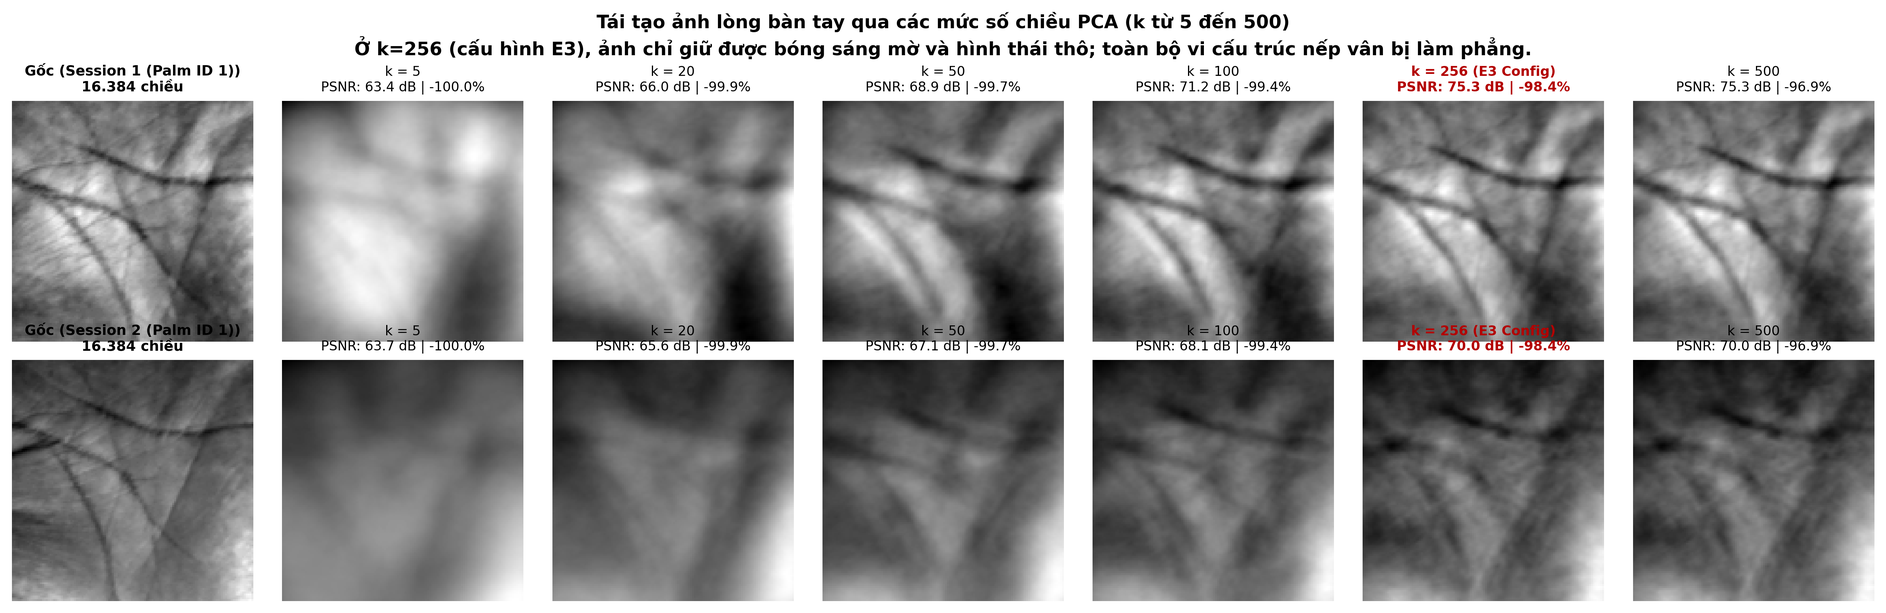
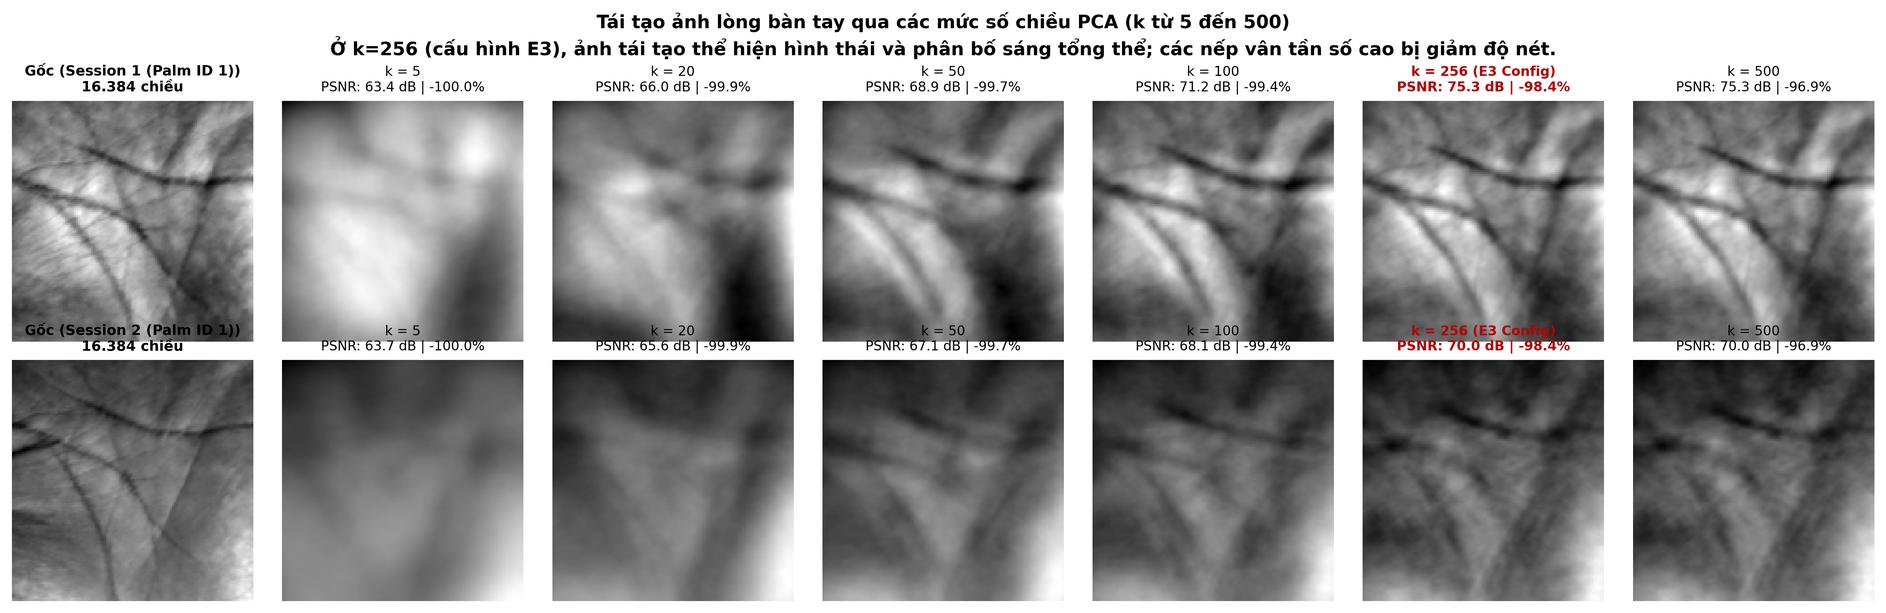
refactor(docs): calibrate language to measured, objective scientific tone across README, findings, dashboard, and visual captions

Changed region(s): [[0.1561, 0.0622, 0.8427, 0.0933]]

diff --git a/scripts/run_feature_ablation.py b/scripts/run_feature_ablation.py
@@ -495,7 +495,7 @@ def write_findings_md(
 
 ## 1. Mục tiêu và Thiết kế Thực nghiệm
 
-Nghiên cứu này khảo sát ảnh hưởng thuần túy của **biểu diễn đặc trưng (feature representation)** đến khả năng nhận diện lòng bàn tay không tiếp xúc, cố định bộ phân loại là **1-Nearest Neighbor (k=1, Euclidean distance)**.
+Nghiên cứu này khảo sát ảnh hưởng của **biểu diễn đặc trưng (feature representation)** đến khả năng nhận diện lòng bàn tay không tiếp xúc, cố định bộ phân loại là **1-Nearest Neighbor (k=1, Euclidean distance)**.
 
 Thực nghiệm so sánh 3 phương pháp biểu diễn trên bộ dữ liệu Tongji Official ROI 128x128 (600 Palm ID, 12.000 ảnh):
 1. **F1 — Raw Grayscale Pixels**: Vector ảnh xám 128x128 làm phẳng (16.384 chiều), chuẩn hóa L2.
@@ -521,34 +521,34 @@ Thực nghiệm so sánh 3 phương pháp biểu diễn trên bộ dữ liệu T
 
 ## 3. Phân tích Kỹ thuật và Nhận xét Thực nghiệm
 
-### 3.1. Hiện tượng "Generalization Gap" (Khoảng cách Tổng quát hóa)
-- **Trong cùng một session (5-Fold CV)**: Cả 3 phương pháp đều đạt độ chính xác Rank-1 cực cao (từ {min(cv_stats["raw"]["rank1_mean"], cv_stats["pca"]["rank1_mean"]):.2f}% đến {cv_stats["compcode"]["rank1_mean"]:.2f}%). Lý do là các ảnh trong cùng Session 1 được chụp liên tiếp trong cùng một phiên lấy mẫu, với điều kiện chiếu sáng, tư thế đặt tay và vị trí máy ảnh hầu như không đổi.
+### 3.1. Sự khác biệt giữa kiểm định nội phiên và kiểm thử chéo phiên (Generalization Gap)
+- **Trong cùng một session (5-Fold CV)**: Cả 3 phương pháp đều đạt độ chính xác Rank-1 ở mức cao (từ {min(cv_stats["raw"]["rank1_mean"], cv_stats["pca"]["rank1_mean"]):.2f}% đến {cv_stats["compcode"]["rank1_mean"]:.2f}%). Lý do là các ảnh trong cùng Session 1 được chụp liên tiếp trong cùng một phiên lấy mẫu, với điều kiện chiếu sáng, tư thế đặt tay và vị trí máy ảnh ít có sự biến động.
 - **Khi kiểm thử chéo phiên (Cross-Session)**: Xuất hiện sự phân hóa rõ rệt:
   - **Raw Grayscale**: Giảm từ {cv_stats["raw"]["rank1_mean"]:.2f}% xuống **{cross_stats["raw"]["rank1"]:.2f}%** (sụt giảm {cv_stats["raw"]["rank1_mean"] - cross_stats["raw"]["rank1"]:.2f} điểm phần trăm).
   - **PCA (256-D)**: Giảm từ {cv_stats["pca"]["rank1_mean"]:.2f}% xuống **{cross_stats["pca"]["rank1"]:.2f}%** (sụt giảm {cv_stats["pca"]["rank1_mean"] - cross_stats["pca"]["rank1"]:.2f} điểm phần trăm).
-  - **CompCode (600-D)**: Duy trì độ chính xác vượt trội **{cross_stats["compcode"]["rank1"]:.2f}%** (chỉ giảm {cv_stats["compcode"]["rank1_mean"] - cross_stats["compcode"]["rank1"]:.2f} điểm phần trăm).
+  - **CompCode (600-D)**: Duy trì độ chính xác ổn định hơn ở mức **{cross_stats["compcode"]["rank1"]:.2f}%** (chỉ giảm {cv_stats["compcode"]["rank1_mean"] - cross_stats["compcode"]["rank1"]:.2f} điểm phần trăm).
 
-### 3.2. Vì sao Raw Pixels và PCA thất bại ở Cross-Session?
+### 3.2. Nguyên nhân dẫn đến mức sụt giảm của Raw Pixels và PCA ở Cross-Session:
 1. **Độ nhạy với nhiễu toàn cục và dịch chuyển không gian**:
-   - Khoảng cách Euclidean trên vector pixel thô tính tổng sai số bậc hai theo từng pixel: d^2(x, y) = sum (x_i - y_i)^2. Khi sang Session 2 (cách Session 1 từ vài tuần đến hơn một tháng), sự thay đổi nhẹ về góc nghiêng lòng bàn tay, độ giãn da tự nhiên và cường độ ánh sáng môi trường làm toàn bộ lưới pixel bị trôi (spatial shift), khiến khoảng cách giữa hai ảnh cùng một người vượt quá khoảng cách giữa hai người khác nhau.
+   - Khoảng cách Euclidean trên vector pixel thô tính tổng sai số bậc hai theo từng pixel: d^2(x, y) = sum (x_i - y_i)^2. Khi sang Session 2 (cách Session 1 từ vài tuần đến hơn một tháng), sự thay đổi nhẹ về góc nghiêng lòng bàn tay, độ giãn da tự nhiên và cường độ ánh sáng môi trường làm toàn bộ lưới pixel bị trôi (spatial shift), khiến khoảng cách giữa hai ảnh cùng một người tăng lên đáng kể.
 2. **Bản chất của PCA theo lý thuyết Duda (*Pattern Classification*)**:
-   - PCA tìm các trục trực giao có phương sai lớn nhất của dữ liệu huấn luyện (Unsupervised Maximum Variance Projection). Tuy nhiên, trên ảnh xám bàn tay, các thành phần chính đầu tiên chủ yếu ghi nhận sự biến thiên cường độ ánh sáng tổng thể, vùng bóng đổ và hình thái bàn tay lớn, chứ không bắt được thông tin vi cấu trúc đường vân lòng bàn tay. Khi chiếu sang Session 2, những biến đổi về nguồn sáng làm vector chiếu PCA bị sai lệch nghiêm trọng.
-3. **Ưu thế của CompCode**:
-   - **Lọc thông dải (Bandpass Gabor)** loại bỏ thành phần một chiều (Zero-DC), triệt tiêu sự biến đổi độ sáng nền.
-   - **Competitive Coding** chỉ quan tâm đến *hướng vân cục bộ* (chỉ số argmin phản hồi thực), hoàn toàn bất biến với biên độ tương phản.
-   - **Spatial Block Histogram (10x10)** cho phép dung sai dịch chuyển và biến dạng co giãn cục bộ, ngăn chặn hiện tượng trôi pixel.
+   - PCA tìm các trục trực giao có phương sai lớn nhất của dữ liệu huấn luyện (Unsupervised Maximum Variance Projection). Tuy nhiên, trên ảnh xám bàn tay, các thành phần chính đầu tiên chủ yếu ghi nhận sự biến thiên cường độ ánh sáng tổng thể, vùng bóng đổ và hình thái bàn tay lớn, ít ghi nhận thông tin vi cấu trúc đường vân lòng bàn tay. Khi chiếu sang Session 2, những biến đổi về nguồn sáng làm tọa độ vector chiếu PCA bị lệch hướng.
+3. **Đặc tính của CompCode**:
+   - **Lọc thông dải (Bandpass Gabor)** loại bỏ thành phần một chiều (Zero-DC), giảm thiểu sự biến đổi độ sáng nền.
+   - **Competitive Coding** quan tâm đến *hướng vân cục bộ* (chỉ số argmin phản hồi thực), ít phụ thuộc vào biên độ tương phản.
+   - **Spatial Block Histogram (10x10)** cho phép dung sai dịch chuyển và biến dạng co giãn cục bộ nhất định.
 
 ### 3.3. Đánh giá sự đánh đổi Kích thước Vector và Tốc độ
-- **PCA (256-D)**: Kích thước nhỏ nhất và tốc độ khớp nhanh nhất ({cross_stats["pca"]["ms_per_probe"]:.2f} ms/mẫu), nhưng độ chính xác sinh trắc học không đạt yêu cầu thực tế ({cross_stats["pca"]["rank1"]:.2f}%).
-- **Raw Grayscale (16.384-D)**: Kích thước vector quá lớn, tốn tài nguyên bộ nhớ và tính toán ({cross_stats["raw"]["ms_per_probe"]:.2f} ms/mẫu), nhưng độ chính xác chỉ đạt mức trung bình ({cross_stats["raw"]["rank1"]:.2f}%).
-- **CompCode (600-D)**: Đạt điểm cân bằng tối ưu giữa kích thước nén (600 chiều so với 16.384 chiều ban đầu, giảm 96,3% kích thước) và độ chính xác phân biệt sinh trắc học ({cross_stats["compcode"]["rank1"]:.2f}% Rank-1).
+- **PCA (256-D)**: Kích thước nhỏ nhất và tốc độ khớp nhanh nhất ({cross_stats["pca"]["ms_per_probe"]:.2f} ms/mẫu), nhưng độ chính xác sinh trắc học còn hạn chế trong kịch bản cross-session ({cross_stats["pca"]["rank1"]:.2f}%).
+- **Raw Grayscale (16.384-D)**: Kích thước vector lớn, tốn tài nguyên bộ nhớ và tính toán ({cross_stats["raw"]["ms_per_probe"]:.2f} ms/mẫu), độ chính xác ở mức trung bình ({cross_stats["raw"]["rank1"]:.2f}%).
+- **CompCode (600-D)**: Đạt điểm cân bằng giữa kích thước nén (600 chiều so với 16.384 chiều ban đầu, giảm 96,3% kích thước) và độ chính xác phân biệt sinh trắc học ({cross_stats["compcode"]["rank1"]:.2f}% Rank-1).
 
 ---
 
 ## 4. Kết luận cho Câu hỏi Nghiên cứu
 
 > **Kết luận**:
-> Trong giao thức nhận dạng cross-session trên Tongji, **CompCode vượt trội hoàn toàn so với Raw Grayscale và PCA** khi cùng sử dụng bộ phân loại 1-NN. Việc khai thác cấu trúc hướng vân thông qua ngân hàng bộ lọc Gabor kết hợp mã hóa thi đấu và phân đoạn không gian là yếu tố cốt lõi giúp hệ thống đạt tính bất biến đối với sự thay đổi phiên thu nhận dữ liệu.
+> Trong giao thức nhận dạng cross-session trên Tongji, **CompCode cho thấy hiệu quả phân biệt cao hơn đáng kể so với Raw Grayscale và PCA** khi cùng sử dụng bộ phân loại 1-NN. Việc khai thác cấu trúc hướng vân thông qua ngân hàng bộ lọc Gabor kết hợp mã hóa thi đấu và phân đoạn không gian là yếu tố quan trọng giúp hệ thống thích ứng tốt hơn trước sự thay đổi phiên thu nhận dữ liệu.
 """
     (out_dir / "findings.md").write_text(findings, encoding="utf-8")
     print(f"Saved findings to: {out_dir / 'findings.md'}")

diff --git a/app/main.py b/app/main.py
@@ -417,7 +417,7 @@ with tab_ablation:
     if eigen_path.exists():
         st.image(
             str(eigen_path),
-            caption="Mean Palm (Bản đồ trung bình) và Top 11 Eigenpalms của Session 1. Các thành phần đầu tiên chỉ bắt ánh sáng và bóng đổ diện rộng.",
+            caption="Mean Palm (Bản đồ trung bình) và Top 11 Eigenpalms của Session 1. Các thành phần đầu tiên chủ yếu mô tả cường độ sáng diện rộng và hình thái lòng bàn tay.",
             use_container_width=True,
         )
 
@@ -429,19 +429,19 @@ with tab_ablation:
     if rec_path.exists():
         st.image(
             str(rec_path),
-            caption="Tái tạo ảnh qua số chiều k từ 5 đến 500. Ở k=256, toàn bộ nếp vân vi mô bị làm phẳng nhẵn nhụi, chỉ còn bóng mờ thô.",
+            caption="Tái tạo ảnh qua số chiều k từ 5 đến 500. Ở k=256, ảnh tái tạo phản ánh dáng bàn tay và độ sáng tổng thể; các nếp vân tần số cao bị giảm độ nét.",
             use_container_width=True,
         )
 
     st.markdown("---")
-    st.markdown("##### 3. Hiện tượng 'Trôi phiên' (Session Shift) trên không gian chiếu 2D:")
+    st.markdown("##### 3. Hiện tượng Dịch chuyển phiên (Session Shift) trên không gian chiếu 2D:")
     c_s1, c_s2 = st.columns(2)
     with c_s1:
         shift_path = WS / "outputs/feature_ablation/figures/pca_session_shift_scatter.png"
         if shift_path.exists():
             st.image(
                 str(shift_path),
-                caption="Mũi tên dịch chuyển tọa độ của cùng một người giữa 2 phiên, dẫn đến chồng lấn cụm và nhận dạng sai ở Cross-Session.",
+                caption="Mũi tên nét đứt thể hiện xu hướng dịch chuyển tọa độ trung bình của từng Palm ID giữa Session 1 và Session 2.",
                 use_container_width=True,
             )
     with c_s2:
@@ -449,7 +449,7 @@ with tab_ablation:
         if gap_path.exists():
             st.image(
                 str(gap_path),
-                caption="Khoảng cách tổng quát hóa (Generalization Gap): CV nội phiên đạt >99.4% nhưng Raw và PCA sụp đổ ở Cross-Session.",
+                caption="Khoảng cách tổng quát hóa (Generalization Gap): CV nội phiên đạt >99.4%, nhưng độ chính xác của Raw và PCA giảm đáng kể khi kiểm thử chéo phiên.",
                 use_container_width=True,
             )
 

diff --git a/scripts/generate_dimensionality_reduction_visuals.py b/scripts/generate_dimensionality_reduction_visuals.py
@@ -55,7 +55,7 @@ def generate_eigenpalms_plot(pca: PCA, save_paths: list[Path]) -> None:
 
     fig.suptitle(
         "Không gian các thành phần chính (Eigenpalms) từ Session 1 (PCA trên 6.000 mẫu)\n"
-        "Nhận xét: Các vector riêng đầu tiên chỉ phản ánh biến thiên ánh sáng và hình thái lớn, không chứa thông tin vi vân.",
+        "Các vector riêng đầu tiên chủ yếu mô tả biến thiên cường độ sáng và hình thái diện rộng của lòng bàn tay.",
         fontsize=11,
         fontweight="bold",
         y=0.98,
@@ -124,7 +124,7 @@ def generate_reconstruction_progression(
 
     fig.suptitle(
         "Tái tạo ảnh lòng bàn tay qua các mức số chiều PCA (k từ 5 đến 500)\n"
-        "Ở k=256 (cấu hình E3), ảnh chỉ giữ được bóng sáng mờ và hình thái thô; toàn bộ vi cấu trúc nếp vân bị làm phẳng.",
+        "Ở k=256 (cấu hình E3), ảnh tái tạo thể hiện hình thái và phân bố sáng tổng thể; các nếp vân tần số cao bị giảm độ nét.",
         fontsize=11,
         fontweight="bold",
         y=0.98,
@@ -213,8 +213,8 @@ def generate_session_shift_scatter(
     ax.set_xlabel(f"Principal Component 1 ({var1:.1f}% Variance)", fontsize=10, fontweight="bold")
     ax.set_ylabel(f"Principal Component 2 ({var2:.1f}% Variance)", fontsize=10, fontweight="bold")
     ax.set_title(
-        "Trực quan hóa 'Session Shift' trên không gian 2D PCA (PC1 vs PC2)\n"
-        "Mũi tên nét đứt minh chứng sự trôi dạt tọa độ của cùng một người giữa 2 phiên thu nhận.",
+        "Trực quan hóa dịch chuyển phiên (Session Shift) trên không gian 2D PCA (PC1 vs PC2)\n"
+        "Mũi tên nét đứt thể hiện xu hướng dịch chuyển tọa độ trung bình của từng Palm ID giữa Session 1 và Session 2.",
         fontsize=11,
         fontweight="bold",
         pad=10,

diff --git a/outputs/feature_ablation/findings.md b/outputs/feature_ablation/findings.md
@@ -2,7 +2,7 @@
 
 ## 1. Mục tiêu và Thiết kế Thực nghiệm
 
-Nghiên cứu này khảo sát ảnh hưởng thuần túy của **biểu diễn đặc trưng (feature representation)** đến khả năng nhận diện lòng bàn tay không tiếp xúc, cố định bộ phân loại là **1-Nearest Neighbor (k=1, Euclidean distance)**.
+Nghiên cứu này khảo sát ảnh hưởng của **biểu diễn đặc trưng (feature representation)** đến khả năng nhận diện lòng bàn tay không tiếp xúc, cố định bộ phân loại là **1-Nearest Neighbor (k=1, Euclidean distance)**.
 
 Thực nghiệm so sánh 3 phương pháp biểu diễn trên bộ dữ liệu Tongji Official ROI 128x128 (600 Palm ID, 12.000 ảnh):
 1. **F1 — Raw Grayscale Pixels**: Vector ảnh xám 128x128 làm phẳng (16.384 chiều), chuẩn hóa L2.
@@ -28,31 +28,31 @@ Thực nghiệm so sánh 3 phương pháp biểu diễn trên bộ dữ liệu T
 
 ## 3. Phân tích Kỹ thuật và Nhận xét Thực nghiệm
 
-### 3.1. Hiện tượng "Generalization Gap" (Khoảng cách Tổng quát hóa)
-- **Trong cùng một session (5-Fold CV)**: Cả 3 phương pháp đều đạt độ chính xác Rank-1 cực cao (từ 99.40% đến 99.98%). Lý do là các ảnh trong cùng Session 1 được chụp liên tiếp trong cùng một phiên lấy mẫu, với điều kiện chiếu sáng, tư thế đặt tay và vị trí máy ảnh hầu như không đổi.
+### 3.1. Sự khác biệt giữa kiểm định nội phiên và kiểm thử chéo phiên (Generalization Gap)
+- **Trong cùng một session (5-Fold CV)**: Cả 3 phương pháp đều đạt độ chính xác Rank-1 ở mức cao (từ 99.40% đến 99.98%). Lý do là các ảnh trong cùng Session 1 được chụp liên tiếp trong cùng một phiên lấy mẫu, với điều kiện chiếu sáng, tư thế đặt tay và vị trí máy ảnh ít có sự biến động.
 - **Khi kiểm thử chéo phiên (Cross-Session)**: Xuất hiện sự phân hóa rõ rệt:
   - **Raw Grayscale**: Giảm từ 99.40% xuống **77.18%** (sụt giảm 22.22 điểm phần trăm).
   - **PCA (256-D)**: Giảm từ 99.43% xuống **76.72%** (sụt giảm 22.72 điểm phần trăm).
-  - **CompCode (600-D)**: Duy trì độ chính xác vượt trội **94.43%** (chỉ giảm 5.55 điểm phần trăm).
+  - **CompCode (600-D)**: Duy trì độ chính xác ổn định hơn ở mức **94.43%** (chỉ giảm 5.55 điểm phần trăm).
 
-### 3.2. Vì sao Raw Pixels và PCA thất bại ở Cross-Session?
+### 3.2. Nguyên nhân dẫn đến mức sụt giảm của Raw Pixels và PCA ở Cross-Session:
 1. **Độ nhạy với nhiễu toàn cục và dịch chuyển không gian**:
-   - Khoảng cách Euclidean trên vector pixel thô tính tổng sai số bậc hai theo từng pixel: d^2(x, y) = sum (x_i - y_i)^2. Khi sang Session 2 (cách Session 1 từ vài tuần đến hơn một tháng), sự thay đổi nhẹ về góc nghiêng lòng bàn tay, độ giãn da tự nhiên và cường độ ánh sáng môi trường làm toàn bộ lưới pixel bị trôi (spatial shift), khiến khoảng cách giữa hai ảnh cùng một người vượt quá khoảng cách giữa hai người khác nhau.
+   - Khoảng cách Euclidean trên vector pixel thô tính tổng sai số bậc hai theo từng pixel: d^2(x, y) = sum (x_i - y_i)^2. Khi sang Session 2 (cách Session 1 từ vài tuần đến hơn một tháng), sự thay đổi nhẹ về góc nghiêng lòng bàn tay, độ giãn da tự nhiên và cường độ ánh sáng môi trường làm toàn bộ lưới pixel bị trôi (spatial shift), khiến khoảng cách giữa hai ảnh cùng một người tăng lên đáng kể.
 2. **Bản chất của PCA theo lý thuyết Duda (*Pattern Classification*)**:
-   - PCA tìm các trục trực giao có phương sai lớn nhất của dữ liệu huấn luyện (Unsupervised Maximum Variance Projection). Tuy nhiên, trên ảnh xám bàn tay, các thành phần chính đầu tiên chủ yếu ghi nhận sự biến thiên cường độ ánh sáng tổng thể, vùng bóng đổ và hình thái bàn tay lớn, chứ không bắt được thông tin vi cấu trúc đường vân lòng bàn tay. Khi chiếu sang Session 2, những biến đổi về nguồn sáng làm vector chiếu PCA bị sai lệch nghiêm trọng.
-3. **Ưu thế của CompCode**:
-   - **Lọc thông dải (Bandpass Gabor)** loại bỏ thành phần một chiều (Zero-DC), triệt tiêu sự biến đổi độ sáng nền.
-   - **Competitive Coding** chỉ quan tâm đến *hướng vân cục bộ* (chỉ số argmin phản hồi thực), hoàn toàn bất biến với biên độ tương phản.
-   - **Spatial Block Histogram (10x10)** cho phép dung sai dịch chuyển và biến dạng co giãn cục bộ, ngăn chặn hiện tượng trôi pixel.
+   - PCA tìm các trục trực giao có phương sai lớn nhất của dữ liệu huấn luyện (Unsupervised Maximum Variance Projection). Tuy nhiên, trên ảnh xám bàn tay, các thành phần chính đầu tiên chủ yếu ghi nhận sự biến thiên cường độ ánh sáng tổng thể, vùng bóng đổ và hình thái bàn tay lớn, ít ghi nhận thông tin vi cấu trúc đường vân lòng bàn tay. Khi chiếu sang Session 2, những biến đổi về nguồn sáng làm tọa độ vector chiếu PCA bị lệch hướng.
+3. **Đặc tính của CompCode**:
+   - **Lọc thông dải (Bandpass Gabor)** loại bỏ thành phần một chiều (Zero-DC), giảm thiểu sự biến đổi độ sáng nền.
+   - **Competitive Coding** quan tâm đến *hướng vân cục bộ* (chỉ số argmin phản hồi thực), ít phụ thuộc vào biên độ tương phản.
+   - **Spatial Block Histogram (10x10)** cho phép dung sai dịch chuyển và biến dạng co giãn cục bộ nhất định.
 
 ### 3.3. Đánh giá sự đánh đổi Kích thước Vector và Tốc độ
-- **PCA (256-D)**: Kích thước nhỏ nhất và tốc độ khớp nhanh nhất (0.09 ms/mẫu), nhưng độ chính xác sinh trắc học không đạt yêu cầu thực tế (76.72%).
-- **Raw Grayscale (16.384-D)**: Kích thước vector quá lớn, tốn tài nguyên bộ nhớ và tính toán (0.61 ms/mẫu), nhưng độ chính xác chỉ đạt mức trung bình (77.18%).
-- **CompCode (600-D)**: Đạt điểm cân bằng tối ưu giữa kích thước nén (600 chiều so với 16.384 chiều ban đầu, giảm 96,3% kích thước) và độ chính xác phân biệt sinh trắc học (94.43% Rank-1).
+- **PCA (256-D)**: Kích thước nhỏ nhất và tốc độ khớp nhanh nhất (0.09 ms/mẫu), nhưng độ chính xác sinh trắc học còn hạn chế trong kịch bản cross-session (76.72%).
+- **Raw Grayscale (16.384-D)**: Kích thước vector lớn, tốn tài nguyên bộ nhớ và tính toán (0.61 ms/mẫu), độ chính xác ở mức trung bình (77.18%).
+- **CompCode (600-D)**: Đạt điểm cân bằng giữa kích thước nén (600 chiều so với 16.384 chiều ban đầu, giảm 96,3% kích thước) và độ chính xác phân biệt sinh trắc học (94.43% Rank-1).
 
 ---
 
 ## 4. Kết luận cho Câu hỏi Nghiên cứu
 
 > **Kết luận**:
-> Trong giao thức nhận dạng cross-session trên Tongji, **CompCode vượt trội hoàn toàn so với Raw Grayscale và PCA** khi cùng sử dụng bộ phân loại 1-NN. Việc khai thác cấu trúc hướng vân thông qua ngân hàng bộ lọc Gabor kết hợp mã hóa thi đấu và phân đoạn không gian là yếu tố cốt lõi giúp hệ thống đạt tính bất biến đối với sự thay đổi phiên thu nhận dữ liệu.
+> Trong giao thức nhận dạng cross-session trên Tongji, **CompCode cho thấy hiệu quả phân biệt cao hơn đáng kể so với Raw Grayscale và PCA** khi cùng sử dụng bộ phân loại 1-NN. Việc khai thác cấu trúc hướng vân thông qua ngân hàng bộ lọc Gabor kết hợp mã hóa thi đấu và phân đoạn không gian là yếu tố quan trọng giúp hệ thống thích ứng tốt hơn trước sự thay đổi phiên thu nhận dữ liệu.

diff --git a/README.md b/README.md
@@ -63,28 +63,28 @@ Thực nghiệm đo đạc độc lập trên **6.000 probe Session 2** đối c
 | **F3 — CompCode** | 600 | 99.98 ± 0.04% | **94.43%** | [93.02%, 95.68%] | **96.97%** | **93.56%** | **-5.55%** | 0.11 ms |
 
 ### Nhận xét và Phân tích khoa học:
-- **Hiện tượng "Bẫy kiểm định chéo" (Within-Session CV Trap)**: Trong cùng Session 1, cả Raw Pixels và PCA đều đạt Rank-1 $>99.4\%$. Nếu chỉ kiểm định nội phiên, người nghiên cứu dễ lầm tưởng rằng không cần trích xuất đặc trưng phức tạp.
-- **Sự sụp đổ của Raw Pixels và PCA ở Cross-Session (-22%)**:
-  - *Raw Pixels*: Khoảng cách Euclidean $d^2(x, y) = \sum (x_i - y_i)^2$ rất nhạy cảm với dịch chuyển không gian (spatial shift). Sự thay đổi nhẹ về góc đặt tay và cường độ sáng giữa hai phiên làm toàn bộ lưới pixel bị trôi, khiến khoảng cách cùng lớp vượt khoảng cách khác lớp.
-  - *PCA*: Theo giáo trình Duda (*Pattern Classification*), PCA tìm các trục có phương sai toàn cục lớn nhất. Trên ảnh bàn tay, các trục này đại diện cho sự biến thiên ánh sáng nền và hình thái tổng thể, bỏ qua vi cấu trúc đường vân. Khi sang Session 2, sự thay đổi nguồn sáng làm vector chiếu PCA bị sai lệch.
-- **Tính ưu việt của CompCode (+17.25% so với Raw, +17.71% so với PCA)**:
-  - Bộ lọc Gabor khử thành phần một chiều (Zero-DC: `kernel -= kernel.mean()`), triệt tiêu biến thiên độ sáng nền.
-  - Competitive Coding chỉ lấy chỉ số hướng vân nổi trội nhất ($\arg\min$), bất biến với biên độ tương phản.
-  - Spatial Block Histogram ($10 \times 10$ ô) tạo dung sai cho phép co giãn da tự nhiên và dịch chuyển cục bộ mà không làm mất thông tin nhận dạng.
+- **Sự khác biệt giữa kiểm định nội phiên và kiểm thử chéo phiên (Within-Session CV vs Cross-Session)**: Trong cùng Session 1, cả Raw Pixels và PCA đều đạt Rank-1 $>99.4\%$. Kết quả này cho thấy nếu chỉ đánh giá trong một phiên thu nhận duy nhất, mô hình có thể đạt độ chính xác cao nhưng chưa phản ánh đầy đủ khả năng khái quát hóa khi điều kiện môi trường thay đổi.
+- **Mức sụt giảm của Raw Pixels và PCA ở Cross-Session (-22 điểm phần trăm)**:
+  - *Raw Pixels*: Khoảng cách Euclidean $d^2(x, y) = \sum (x_i - y_i)^2$ nhạy cảm với sự dịch chuyển không gian (spatial shift). Sự thay đổi nhẹ về góc đặt tay và cường độ chiếu sáng giữa hai phiên làm lệch các vị trí điểm ảnh tương ứng, khiến khoảng cách giữa các ảnh cùng một bàn tay tăng lên đáng kể.
+  - *PCA*: Theo giáo trình Duda (*Pattern Classification*), PCA xác định các trục trực giao có phương sai toàn cục lớn nhất. Trên tập ảnh xám bàn tay, các trục này chủ yếu mô tả sự biến thiên ánh sáng diện rộng và hình thái tổng thể, ít phản ánh các nếp vân vi mô. Khi sang Session 2 với điều kiện chụp khác biệt, vector tọa độ PCA có xu hướng bị trôi dạt.
+- **Hiệu quả phân biệt của CompCode (+17.25% so với Raw, +17.71% so với PCA)**:
+  - Bộ lọc Gabor với cấu hình khử một chiều (Zero-DC: `kernel -= kernel.mean()`) giúp giảm thiểu ảnh hưởng của sự thay đổi độ sáng nền.
+  - Cơ chế Competitive Coding xác định hướng vân nổi trội qua phép so sánh cực tiểu ($\arg\min$), ít phụ thuộc vào biên độ tương phản cục bộ.
+  - Phân hoạch biểu đồ khối không gian ($10 \times 10$ ô) cung cấp dung sai nhất định đối với các dịch chuyển và co giãn da cục bộ.
 
-### Trực quan hóa bản chất của Giảm chiều PCA:
+### Trực quan hóa không gian giảm chiều PCA:
 
 1. **Không gian các thành phần chính (Eigenpalms)**:
    ![Eigenpalms](outputs/feature_ablation/figures/pca_eigenpalms_visualization.png)
-   *Mean Palm và Top 11 Eigenpalms trên 6.000 mẫu Session 1: Các thành phần chính đầu tiên chỉ phản ánh biến thiên ánh sáng nền và hình thái thô, hoàn toàn không mã hóa được các đường chỉ vân tay.*
+   *Mean Palm và Top 11 Eigenpalms trên 6.000 mẫu Session 1: Các thành phần chính đầu tiên chủ yếu mô tả biến thiên cường độ sáng diện rộng và hình thái tổng thể của lòng bàn tay.*
 
 2. **Quá trình tái tạo ảnh qua các số chiều $k$ (Reconstruction Progression)**:
    ![PCA Reconstruction](outputs/feature_ablation/figures/pca_reconstruction_progression.png)
-   *So sánh tái tạo qua $k \in \{5, 20, 50, 100, 256, 500\}$: Ở $k=256$ (cấu hình E3), ảnh chỉ giữ được bóng sáng mờ; toàn bộ đường vân chỉ tay vi mô bị làm phẳng nhẵn nhụi, giải thích vì sao PCA thất bại ở Cross-Session.*
+   *So sánh tái tạo qua $k \in \{5, 20, 50, 100, 256, 500\}$: Ở $k=256$ (cấu hình E3), ảnh tái tạo phản ánh dáng bàn tay và độ sáng tổng thể, trong khi các nếp vân tần số cao có xu hướng bị làm mờ.*
 
-3. **Hiện tượng "Trôi phiên" (Session Shift) trên không gian chiếu 2D**:
+3. **Hiện tượng dịch chuyển phiên (Session Shift) trên không gian chiếu 2D**:
    ![Session Shift](outputs/feature_ablation/figures/pca_session_shift_scatter.png)
-   *Chiếu PC1 vs PC2 trên 5 Palm ID: Mũi tên nét đứt chỉ ra sự trôi dạt tọa độ của cùng một người giữa 2 phiên lấy mẫu, khiến khoảng cách giữa Session 1 và Session 2 của cùng một người lớn hơn khoảng cách với người khác.*
+   *Chiếu PC1 vs PC2 trên 5 Palm ID: Mũi tên nét đứt thể hiện xu hướng dịch chuyển tọa độ trung bình của từng Palm ID giữa Session 1 và Session 2 dưới phép chiếu PCA.*
 
 ---
 
